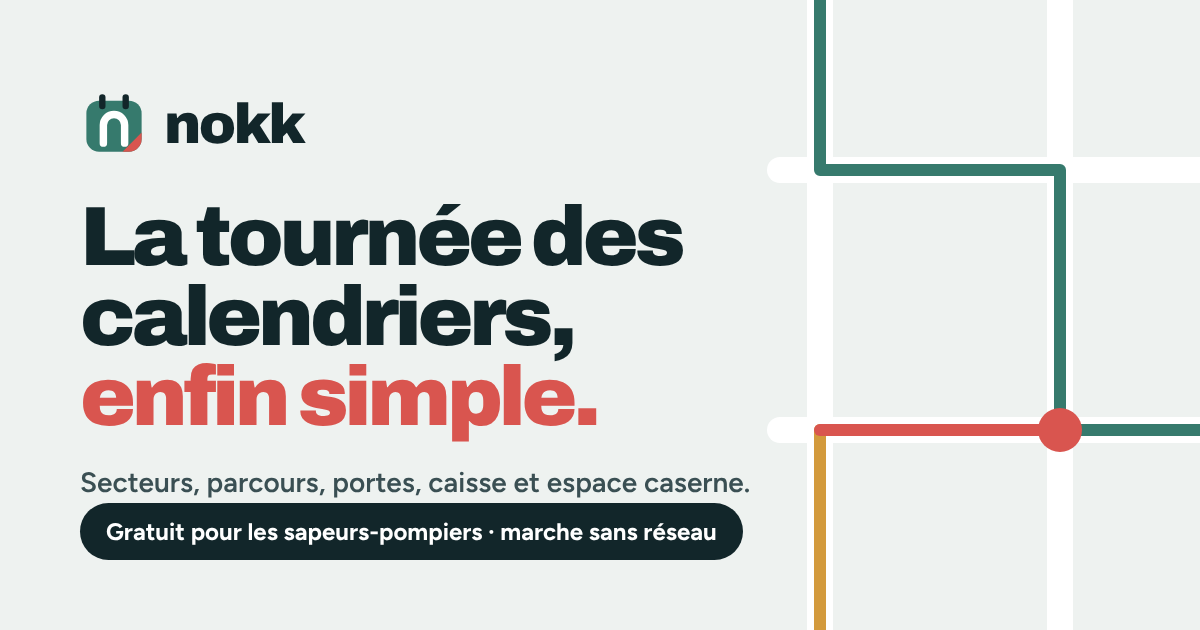
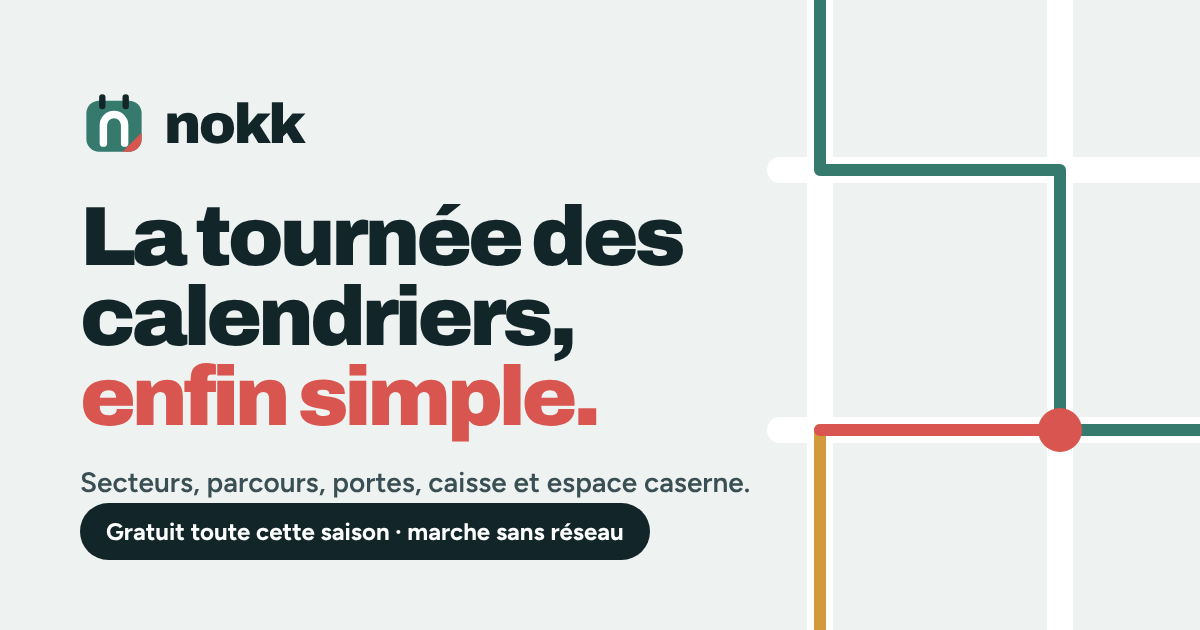
Landing : gratuit toute cette saison, puis formule pompier et formule caserne (prix annoncés plus tard)
Claude-Session: https://claude.ai/code/session_01NGV4skYPNCQocgRpetetGa

Changed region(s): [[0.1542, 0.7841, 0.6167, 0.9048]]

diff --git a/public/decouvrir/index.html b/public/decouvrir/index.html
@@ -4,14 +4,14 @@
   <meta charset="utf-8" />
   <meta name="viewport" content="width=device-width, initial-scale=1, viewport-fit=cover" />
   <title>Nokk · la tournée des calendriers des sapeurs-pompiers</title>
-  <meta name="description" content="Nokk, l'app gratuite des tournées de calendriers des sapeurs-pompiers : secteurs sur la carte, parcours optimisé, saisie porte à porte, caisse, espace caserne, QR « Repassez plus tard ». Marche hors ligne." />
+  <meta name="description" content="Nokk, l'app des tournées de calendriers des sapeurs-pompiers : secteurs sur la carte, parcours optimisé, saisie porte à porte, caisse, espace caserne, QR « Repassez plus tard ». Marche hors ligne." />
   <meta name="theme-color" content="#eef2f0" />
   <link rel="canonical" href="https://u8tscared.github.io/nokk/decouvrir/" />
   <meta property="og:type" content="website" />
   <meta property="og:locale" content="fr_FR" />
   <meta property="og:site_name" content="Nokk" />
   <meta property="og:title" content="Nokk · la tournée des calendriers, enfin simple" />
-  <meta property="og:description" content="Secteurs, parcours, portes, caisse et espace caserne. Gratuit pour les sapeurs-pompiers, marche sans réseau." />
+  <meta property="og:description" content="Secteurs, parcours, portes, caisse et espace caserne. Gratuit toute cette saison, marche sans réseau." />
   <meta property="og:url" content="https://u8tscared.github.io/nokk/decouvrir/" />
   <meta property="og:image" content="https://u8tscared.github.io/nokk/decouvrir/og.png" />
   <meta property="og:image:width" content="1200" />
@@ -74,7 +74,7 @@
 
       <div class="hero-inner">
         <div class="hero-copy">
-          <p class="pill reveal"><span class="pill-dot"></span>Gratuit pour les casernes · version de test</p>
+          <p class="pill reveal"><span class="pill-dot"></span>Gratuit toute cette saison</p>
           <h1 class="hero-title">
             <span class="line"><span>La tournée des</span></span>
             <span class="line"><span>calendriers,</span></span>
@@ -683,12 +683,17 @@
       <div class="wrap free-grid">
         <div class="free-price reveal">
           <span class="free-zero">0<sup>€</sup></span>
-          <span class="free-sub">pour toutes les casernes<br/>pendant la phase de test</span>
+          <span class="free-sub">toute cette saison,<br/>pour toutes les casernes</span>
         </div>
         <div class="free-copy">
-          <h2 class="h2 reveal">Gratuit. Vraiment.</h2>
-          <p class="lead reveal">Nokk est en test avec de vraies équipes. Les pompiers n'ont rien à payer, pas de carte bancaire, pas d'engagement. On vous demande seulement vos retours, et d'en parler autour de vous.</p>
-          <ul class="ticks big reveal"><li>Toutes les fonctionnalités incluses</li><li>Équipe illimitée, secteurs illimités</li><li>Exports et sauvegardes inclus</li></ul>
+          <h2 class="h2 reveal">Gratuit toute cette saison.</h2>
+          <p class="lead reveal">Nokk se lance avec de vraies équipes. Cette saison, tout est offert : pas de carte bancaire, pas d'engagement, toutes les fonctionnalités. On vous demande seulement vos retours, et d'en parler autour de vous.</p>
+          <p class="plans-intro reveal">Ensuite, deux formules simples :</p>
+          <div class="plans reveal">
+            <div class="plan"><span class="plan-ico" aria-hidden="true"><svg viewBox="0 0 24 24"><circle cx="12" cy="8" r="3.6" fill="none" stroke="currentColor" stroke-width="2.2"/><path d="M5 20c.8-3.6 3.6-5.5 7-5.5s6.2 1.9 7 5.5" fill="none" stroke="currentColor" stroke-width="2.2" stroke-linecap="round"/></svg></span><b>Formule pompier</b><span>Un pompier prend Nokk pour lui et son binôme, pour la saison.</span></div>
+            <div class="plan"><span class="plan-ico red" aria-hidden="true"><svg viewBox="0 0 24 24"><path d="M4 20V9l8-5 8 5v11M9 20v-6h6v6" fill="none" stroke="currentColor" stroke-width="2.2" stroke-linejoin="round"/></svg></span><b>Formule caserne</b><span>L'amicale abonne toute la caserne : espace chef, équipe et secteurs illimités.</span></div>
+          </div>
+          <p class="plans-note reveal">Les prix seront annoncés avant la saison prochaine.</p>
           <div class="hero-ctas reveal"><a class="btn primary lg" data-app href="../">Créer ma caserne</a><a class="btn ghost lg" data-app="demo" href="../#demo">Voir la démo</a></div>
         </div>
       </div>
@@ -731,7 +736,7 @@
           <h2 class="h2 reveal">Ce qu'on nous demande le plus.</h2>
         </div>
         <div class="faq-list">
-          <details class="reveal"><summary>C'est vraiment gratuit ?</summary><p>Oui. Pendant la phase de test, Nokk est gratuite pour toutes les casernes et amicales, sans carte bancaire ni engagement.</p></details>
+          <details class="reveal"><summary>C'est gratuit ?</summary><p>Oui, toute cette saison, pour toutes les casernes et amicales, sans carte bancaire ni engagement. Ensuite il y aura deux formules : une formule pompier, pour la saison, et une formule caserne, que l'amicale prend pour toute l'équipe. Les prix seront annoncés avant la saison prochaine.</p></details>
           <details class="reveal"><summary>Il faut installer quelque chose ?</summary><p>Non, Nokk s'ouvre dans le navigateur. Pour l'avoir comme une app : sur iPhone, Safari puis Partager puis « Sur l'écran d'accueil » ; sur Android, Chrome puis « Installer l'application ».</p></details>
           <details class="reveal"><summary>Et sans réseau ?</summary><p>Tout marche hors ligne : la carte déjà vue, les portes, la caisse. Les saisies partent dès que le téléphone retrouve du réseau.</p></details>
           <details class="reveal"><summary>Nos anciens plans papier, on les garde ?</summary><p>Prenez-les en photo : Nokk en fait des secteurs sur la vraie carte. Vous pouvez aussi tracer à la main ou coller une liste d'adresses. Et réimprimer chaque secteur en PDF avec la liste des rues.</p></details>

diff --git a/public/decouvrir/landing.css b/public/decouvrir/landing.css
@@ -721,3 +721,15 @@ details[open] p { animation: fadeup .5s var(--ease); }
 .compare:has(.cmp-range:focus-visible) .cmp-handle span { outline: 3px solid var(--ink); outline-offset: 3px; }
 
 .art-draw svg { width: 100%; height: 100%; }
+
+.plans-intro { margin-top: 26px; font-family: var(--d); font-weight: 700; font-size: 19px; letter-spacing: -.02em; }
+.plans { display: grid; grid-template-columns: 1fr 1fr; gap: 12px; margin-top: 12px; }
+@media (max-width: 560px) { .plans { grid-template-columns: 1fr; } }
+.plan { display: grid; gap: 6px; align-content: start; background: var(--paper); border-radius: 22px; padding: 18px; box-shadow: var(--sh); transition: transform .35s var(--spring), box-shadow .35s var(--ease); }
+.plan:hover { transform: translateY(-3px); box-shadow: var(--sh-float); }
+.plan b { font-family: var(--d); font-size: 20px; letter-spacing: -.02em; }
+.plan > span:last-child { color: var(--ink-2); font-size: 15.5px; }
+.plan-ico { display: grid; place-items: center; width: 40px; height: 40px; border-radius: 13px; background: var(--tint); color: var(--accent-ink); margin-bottom: 4px; }
+.plan-ico.red { background: var(--accent-2-tint); color: var(--accent-2-ink); }
+.plan-ico svg { width: 22px; height: 22px; }
+.plans-note { margin-top: 14px; color: var(--muted); font-size: 14.5px; font-weight: 600; }

diff --git a/public/decouvrir/landing.js b/public/decouvrir/landing.js
@@ -265,7 +265,7 @@
       url = u.href;
       $('#sh-url').textContent = url.replace(/^https?:\/\//, '');
       var who = name.value.trim();
-      var msg = (who ? 'Salut, c\'est ' + who + '. ' : '') + 'Regarde Nokk, l\'appli qu\'on utilise pour la tournée des calendriers : secteurs, parcours, caisse, et ça marche sans réseau. Gratuit pour les casernes : ';
+      var msg = (who ? 'Salut, c\'est ' + who + '. ' : '') + 'Regarde Nokk, l\'appli qu\'on utilise pour la tournée des calendriers : secteurs, parcours, caisse, et ça marche sans réseau. Gratuit toute cette saison : ';
       $('#sh-wa').href = 'https://wa.me/?text=' + encodeURIComponent(msg + url);
       $('#sh-sms').href = 'sms:?&body=' + encodeURIComponent(msg + url);
       $('#sh-mail').href = 'mailto:?subject=' + encodeURIComponent('Nokk, l\'appli pour la tournée des calendriers') + '&body=' + encodeURIComponent(msg + url);
